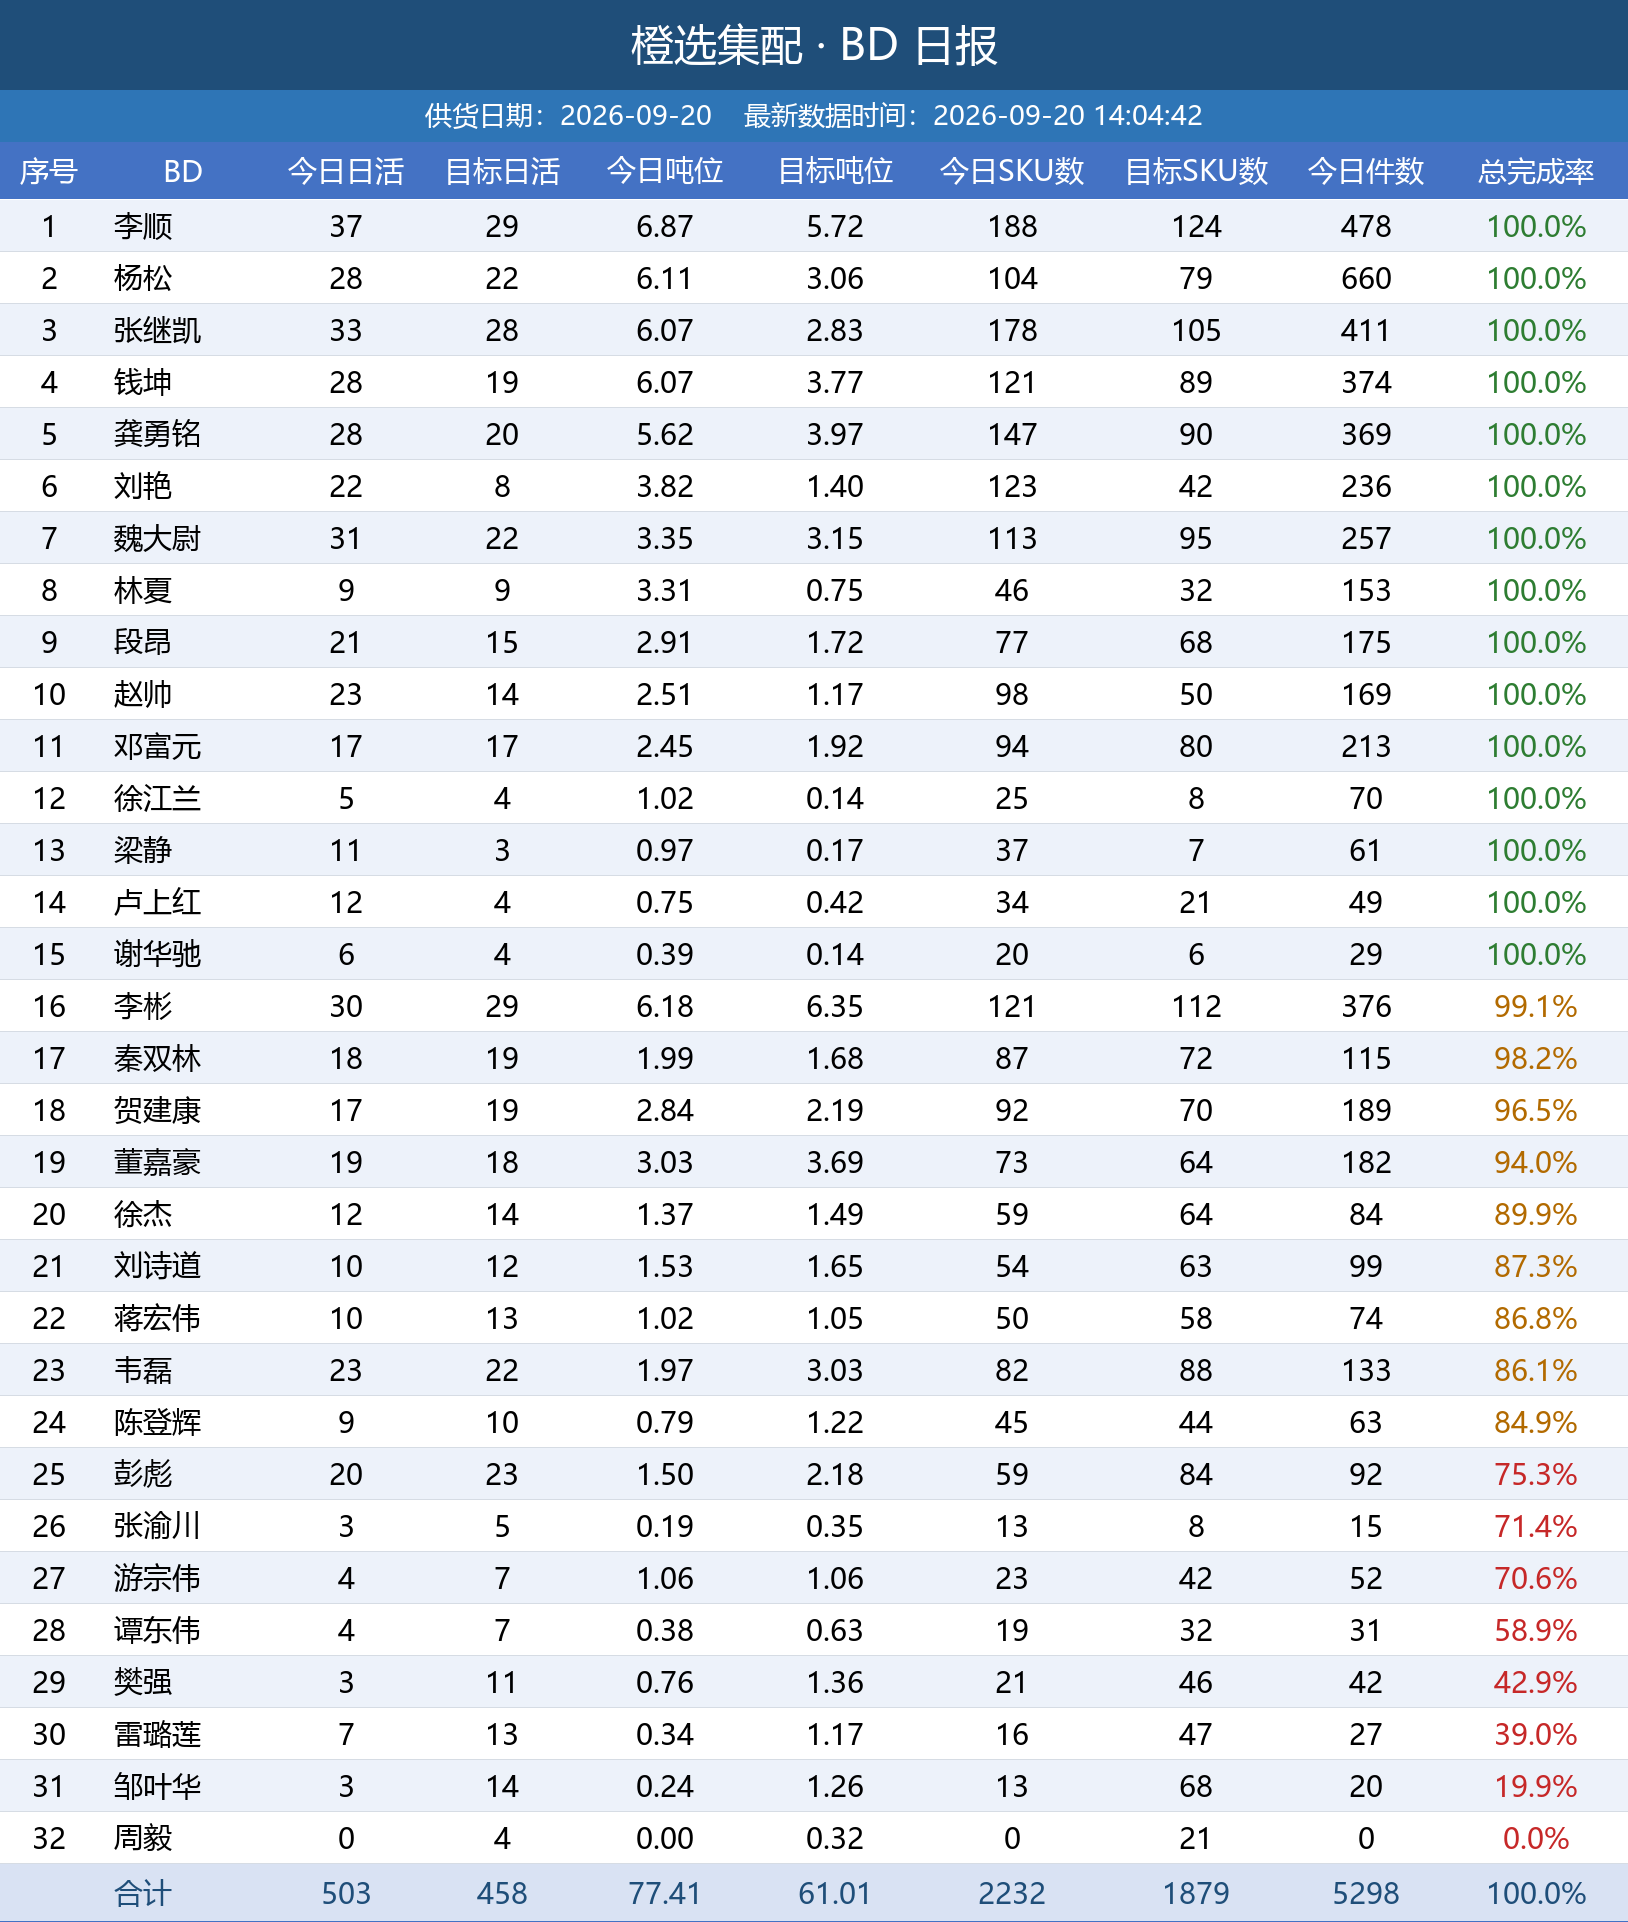
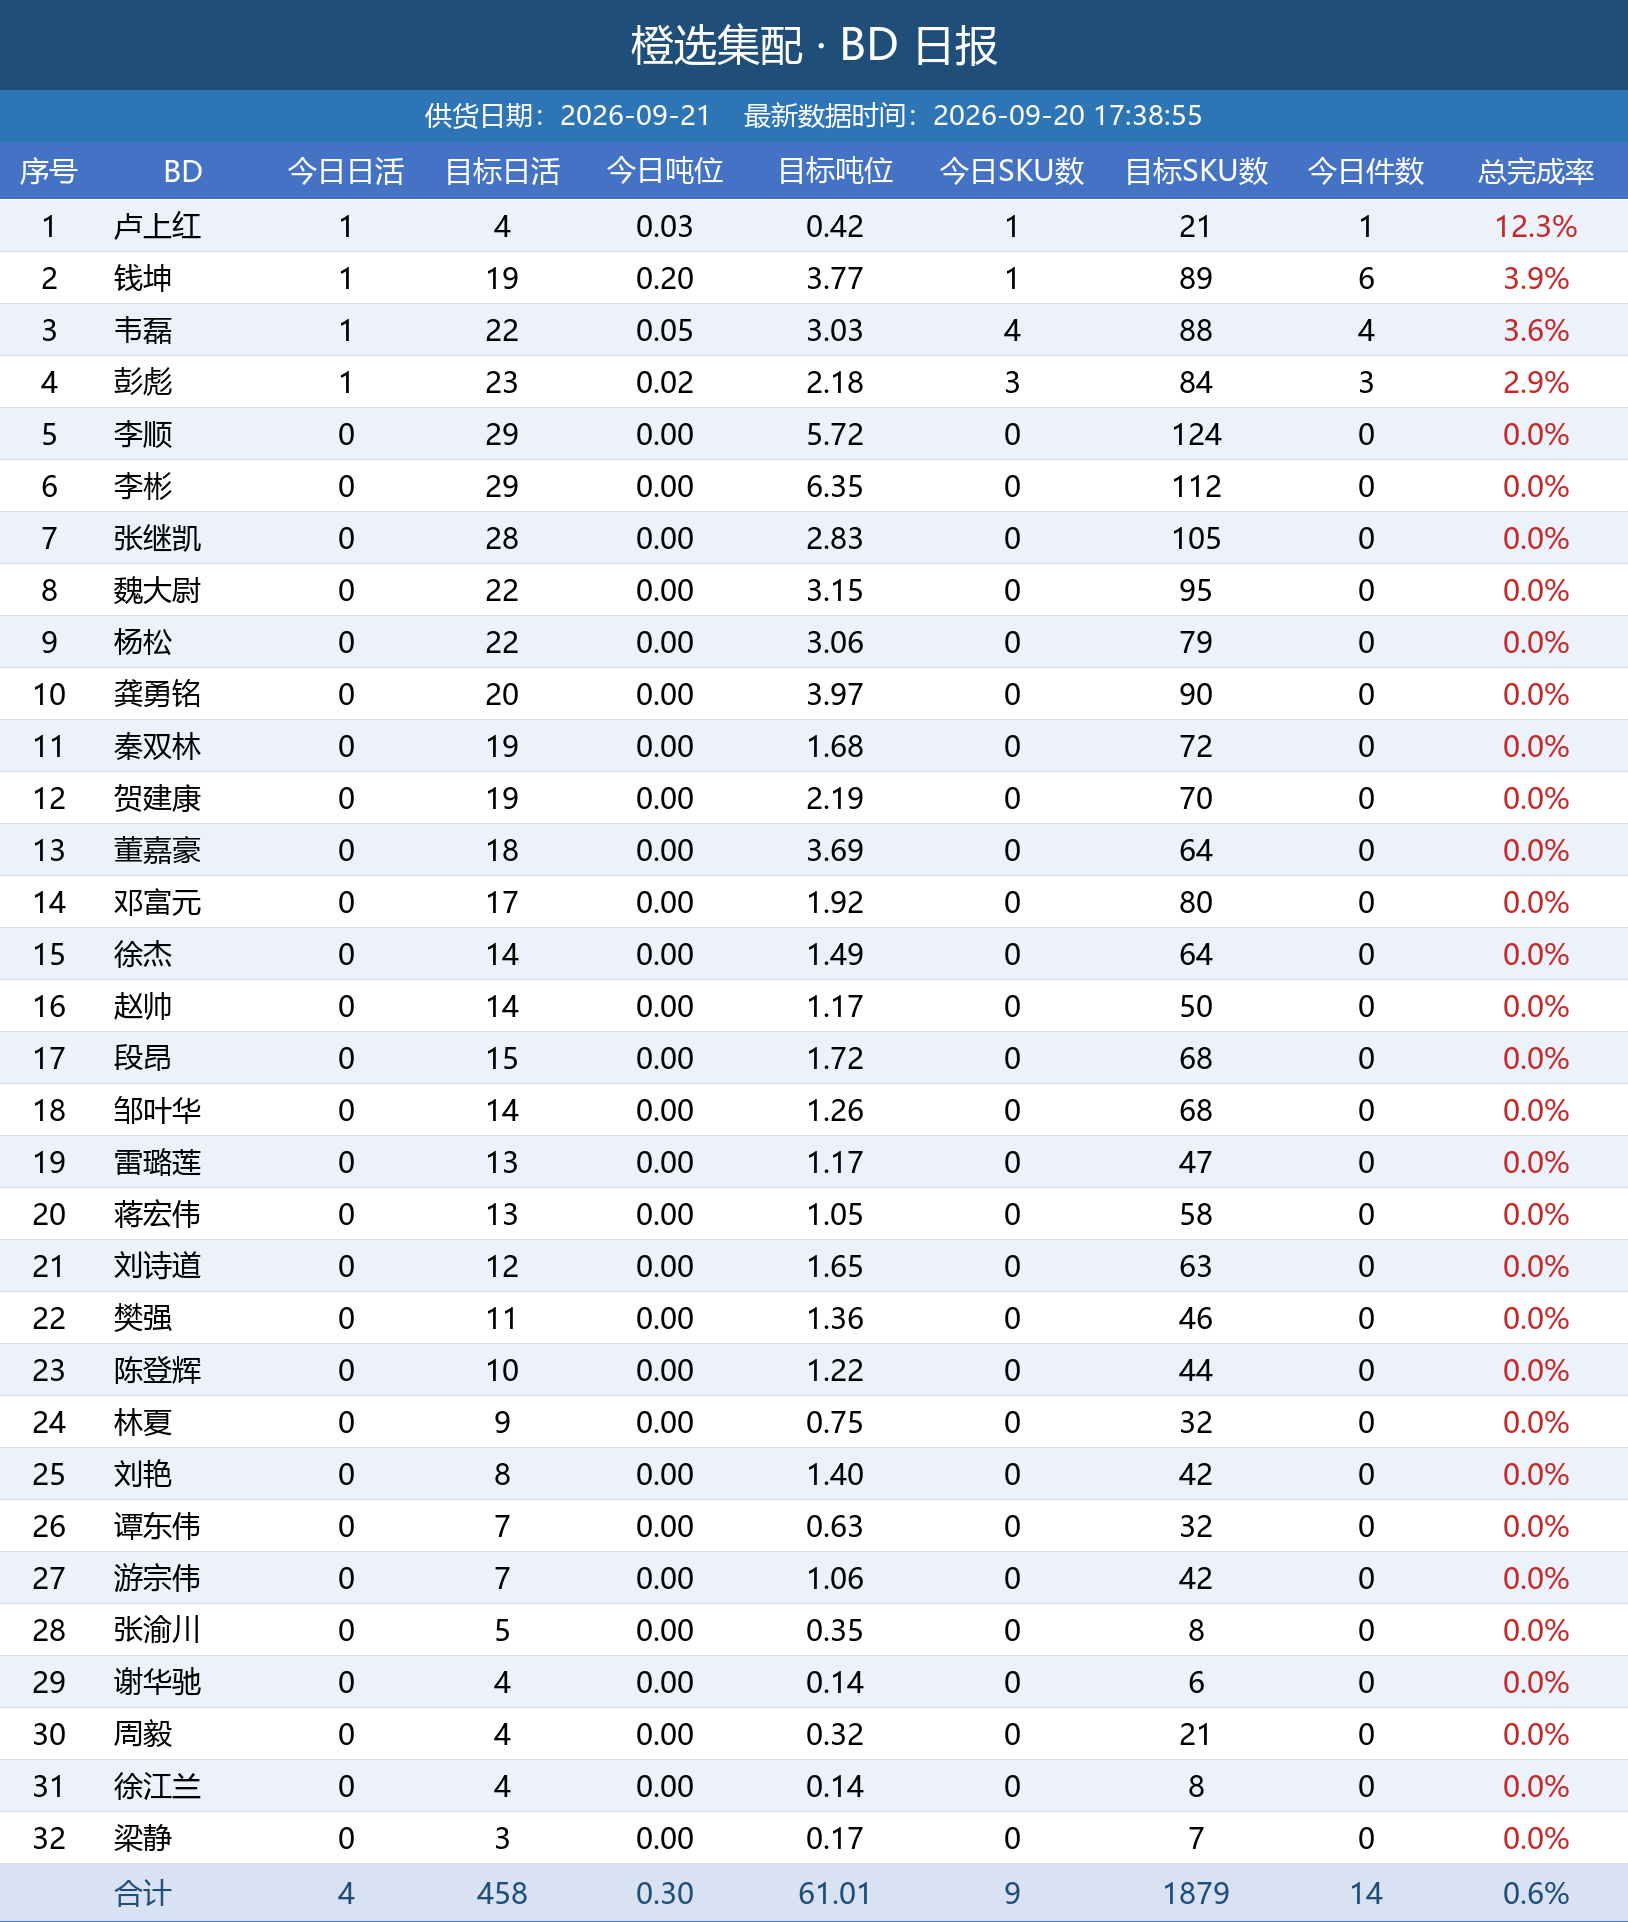
自动更新日报图片

diff --git a/daily_report/index.html b/daily_report/index.html
@@ -11,7 +11,7 @@ img { max-width: 100%; border: 1px solid #e5e5e5; margin-bottom: 24px; display: 
 </style>
 </head>
 <body>
-<h1>橙选集配日报图片（20260920_140452）</h1>
+<h1>橙选集配日报图片（20260920_173856）</h1>
 <img src="bd_latest.png" alt="BD 日报">
 <img src="wh_latest.png" alt="城市仓日报">
 <img src="zs_latest.png" alt="招商日报">
